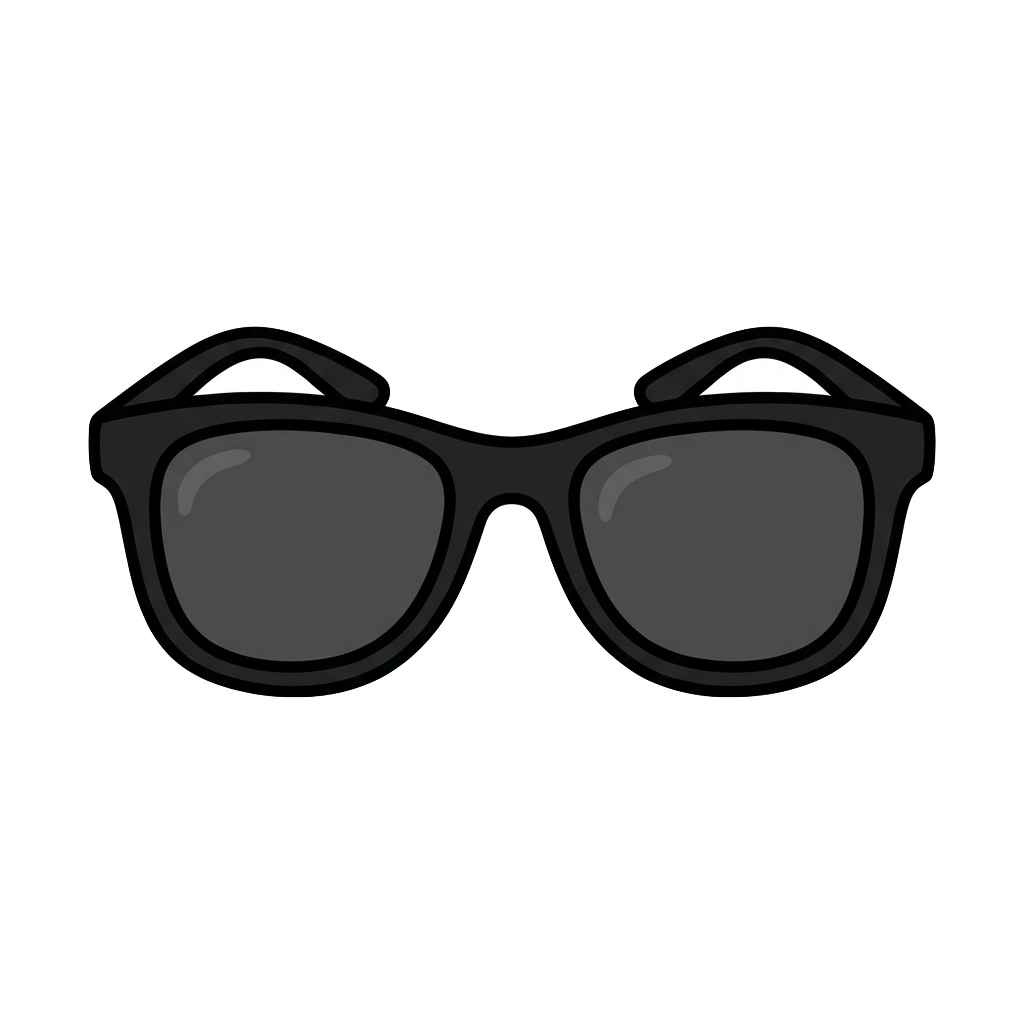
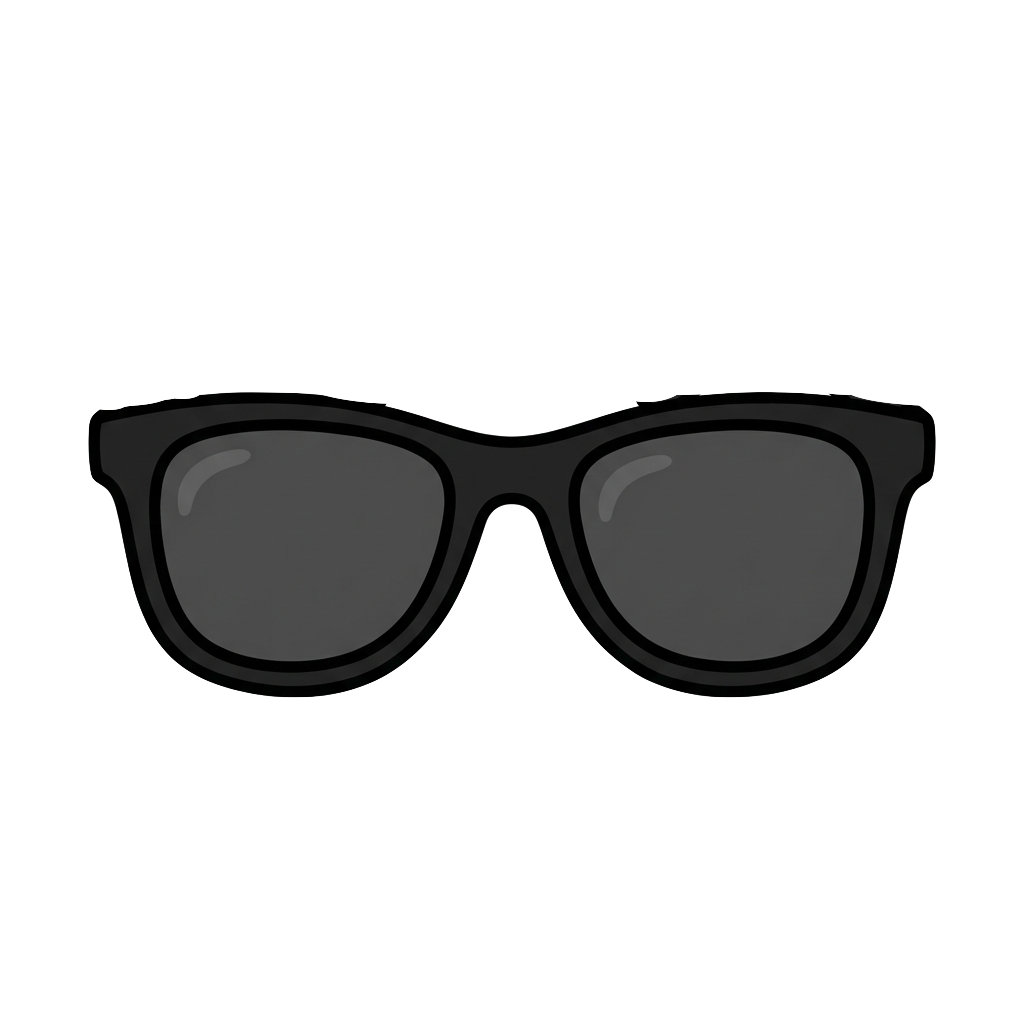
trash works, hide elements in drawer to allow for vertical scrolling and adding new items in the future

Changed region(s): [[0.0938, 0.3125, 0.4062, 0.4062], [0.625, 0.3125, 0.9062, 0.4062]]

diff --git a/components/SlidingDrawer.js b/components/SlidingDrawer.js
@@ -1,12 +1,14 @@
 import React, { useState, useRef } from 'react';
 import { View, TouchableOpacity, Image, StyleSheet, Animated, Text, ScrollView, Dimensions, I18nManager } from 'react-native';
 import { GestureDetector, Gesture } from 'react-native-gesture-handler';
-import AnimatedReanimated, { useSharedValue, useAnimatedStyle, withSpring, runOnJS } from 'react-native-reanimated';
+import AnimatedReanimated, { useSharedValue, useAnimatedStyle, withSpring, runOnJS, useAnimatedScrollHandler, interpolate, Extrapolate } from 'react-native-reanimated';
 
-const DRAWER_WIDTH = 160;
+const DRAWER_WIDTH = 120;
 const { width: SCREEN_WIDTH, height: SCREEN_HEIGHT } = Dimensions.get('window');
 
-function DraggableDrawerItem({ item, active, color, onSelect, allowDrag }) {
+const ITEM_HEIGHT_ESTIMATE = 95; // Approx height of item + gap
+
+function DraggableDrawerItem({ item, active, color, onSelect, allowDrag, scrollY, index, drawerHeight }) {
     const translateX = useSharedValue(0);
     const translateY = useSharedValue(0);
     const isDragging = useSharedValue(false);
@@ -14,6 +16,7 @@ function DraggableDrawerItem({ item, active, color, onSelect, allowDrag }) {
     // Pan Gesture for dragging
     const panGesture = Gesture.Pan()
         .enabled(allowDrag)
+        .activeOffsetX([-10, 10])
         .onStart(() => {
             isDragging.value = true;
         })
@@ -33,13 +36,31 @@ function DraggableDrawerItem({ item, active, color, onSelect, allowDrag }) {
         });
 
     const animatedStyle = useAnimatedStyle(() => {
+        // Visual Clipping Logic with Interpolation
+        const itemY = index * ITEM_HEIGHT_ESTIMATE;
+        const relativeY = itemY - scrollY.value; // Position relative to view window
+
+        // Interpolate opacity for smooth but strict clipping at edges
+        // Top Edge: Fade in from -60 to -10
+        // Bottom Edge: Fade out from (Height - ItemHeight) to Height
+        const interpolatedOpacity = interpolate(
+            relativeY,
+            [-60, -10, drawerHeight - ITEM_HEIGHT_ESTIMATE - 10, drawerHeight - 40],
+            [0, 1, 1, 0],
+            Extrapolate.CLAMP
+        );
+
+        // Force visible if dragging, otherwise strict clipping
+        const opacity = isDragging.value ? 1 : interpolatedOpacity;
+
         return {
             transform: [
                 { translateX: translateX.value },
                 { translateY: translateY.value },
                 { scale: isDragging.value ? 1.2 : 1 }
             ],
-            zIndex: isDragging.value ? 9999 : 1, // Attempt to float above
+            zIndex: isDragging.value ? 9999 : 1,
+            opacity: withSpring(opacity, { duration: 50 })
         };
     });
 
@@ -82,9 +103,13 @@ export default function SlidingDrawer({
     const [isOpen, setIsOpen] = useState(false);
     const slideAnim = useRef(new Animated.Value(DRAWER_WIDTH)).current;
 
-    // Calculate Dynamic Height
-    // Reserve space for bottom safe area (approx 40) + Top Offset
-    const maxContentHeight = SCREEN_HEIGHT - topOffset - 60; // 60 for title + padding
+    // Fixed height for ~4 items (approx 90px each + margins)
+    const MAX_DRAWER_HEIGHT = 400;
+
+    const scrollY = useSharedValue(0);
+    const scrollHandler = useAnimatedScrollHandler((event) => {
+        scrollY.value = event.contentOffset.y;
+    });
 
     const toggleDrawer = () => {
         const toValue = isOpen ? DRAWER_WIDTH : 0;
@@ -125,15 +150,17 @@ export default function SlidingDrawer({
             </TouchableOpacity>
 
             {/* DRAWER CONTENT */}
-            <View style={[styles.drawerContent, { maxHeight: maxContentHeight + 50 }]}>
+            <View style={[styles.drawerContent, { maxHeight: MAX_DRAWER_HEIGHT }]}>
                 <Text style={[styles.title, { color }]}>{title}</Text>
-                <ScrollView
-                    style={{ maxHeight: maxContentHeight, overflow: 'visible' }} // Attempt overlay: visible
+                <AnimatedReanimated.ScrollView
+                    style={{ maxHeight: MAX_DRAWER_HEIGHT - 40, overflow: 'visible' }}
                     showsVerticalScrollIndicator={true}
-                    contentContainerStyle={{ paddingBottom: 20, overflow: 'visible' }} // Attempt overflow: visible
+                    contentContainerStyle={{ paddingBottom: 20, overflow: 'visible' }}
+                    onScroll={scrollHandler}
+                    scrollEventThrottle={16}
                 >
                     <View style={styles.grid}>
-                        {data.map((item) => (
+                        {data.map((item, index) => (
                             <DraggableDrawerItem
                                 key={item.id}
                                 item={item}
@@ -141,10 +168,13 @@ export default function SlidingDrawer({
                                 color={color}
                                 onSelect={onSelect}
                                 allowDrag={allowDrag}
+                                scrollY={scrollY}
+                                index={index}
+                                drawerHeight={MAX_DRAWER_HEIGHT - 40}
                             />
                         ))}
                     </View>
-                </ScrollView>
+                </AnimatedReanimated.ScrollView>
             </View>
         </Animated.View>
     );
@@ -162,13 +192,13 @@ const styles = StyleSheet.create({
         height: 'auto', // Allow it to shrink/grow
     },
     tab: {
-        width: 70, // Bigger
-        height: 70, // Bigger
-        borderTopLeftRadius: 35, // Rounder
-        borderBottomLeftRadius: 35,
+        width: 60, // Smaller tab to match smaller drawer
+        height: 60,
+        borderTopLeftRadius: 30,
+        borderBottomLeftRadius: 30,
         justifyContent: 'center',
         alignItems: 'center',
-        marginLeft: -70, // Aligned
+        marginLeft: -60, // Aligned
         shadowColor: '#000',
         shadowOpacity: 0.2,
         shadowRadius: 3,
@@ -180,7 +210,7 @@ const styles = StyleSheet.create({
         marginTop: 10,
     },
     tabText: {
-        fontSize: 32, // Bigger Icon
+        fontSize: 28,
         color: 'white',
         textShadowColor: 'rgba(0,0,0,0.2)',
         textShadowOffset: { width: 1, height: 1 },
@@ -189,32 +219,30 @@ const styles = StyleSheet.create({
     drawerContent: {
         flex: 1,
         backgroundColor: 'rgba(255, 255, 255, 0.95)',
-        padding: 10,
+        padding: 5, // Reduced padding
         borderTopLeftRadius: 20,
         borderBottomLeftRadius: 20,
         elevation: 10,
         shadowColor: '#000',
         shadowOpacity: 0.25,
         shadowOffset: { width: -4, height: 4 },
-        // removed fixed height
-        minHeight: 100,
         borderWidth: 1,
         borderColor: '#fff',
+        // overflow: 'hidden', // REMOVED to allow dragging out!
     },
     title: {
         fontWeight: '900',
-        marginBottom: 10,
+        marginBottom: 5,
         textAlign: 'center',
-        fontSize: 16, // Slightly smaller
+        fontSize: 14,
         textTransform: 'uppercase',
         letterSpacing: 1,
     },
     grid: {
-        flexDirection: 'row',
-        flexWrap: 'wrap',
-        justifyContent: 'center',
+        flexDirection: 'column', // Stack vertically
+        flexWrap: 'nowrap',
+        alignItems: 'center',
         gap: 10,
-        // React Native gap property support is inconsistent in older versions but fine in recent Expo
     },
     thumbnailContainer: {
         alignItems: 'center',

diff --git a/App.js b/App.js
@@ -86,7 +86,7 @@ const CENTER_Y = (height * 0.95) / 2 - 300;
 // Constants matching the Visual Layout of the Trash Button
 const TRASH_CONFIG = {
   x: 231, // Align with 4th button center (Start 20 + 3*62 + 25)
-  y: 75,  // Align with header row (Top 50 + Half Height 25)
+  y: 150,  // Drop Zone below the icon
   radius: 40, // Tighter Hit Radius
   visualRadius: 60 // Feedback Radius
 };
@@ -135,6 +135,10 @@ export default function App() {
   const [selectedAnimalId, setSelectedAnimalId] = useState(null); // Track ID
   const [currentOutfitId, setCurrentOutfitId] = useState(null); // Track loaded/saved outfit ID for overwriting
   const [currentScreen, setCurrentScreen] = useState('selection'); // 'selection' | 'dressup'
+  const [savedOutfits, setSavedOutfits] = useState([]);
+  const [isSaveModalVisible, setIsSaveModalVisible] = useState(false);
+  const [trashLayout, setTrashLayout] = useState(null);
+  const [isAboutVisible, setIsAboutVisible] = useState(false);
 
   // EASTER EGG STATE 🥚
   const [eggCount, setEggCount] = useState(0);
@@ -261,9 +265,8 @@ export default function App() {
   const [historyIndex, setHistoryIndex] = useState(0);
 
   // SAVE / LOAD STATE
-  const [savedOutfits, setSavedOutfits] = useState([]);
-  const [isSaveModalVisible, setIsSaveModalVisible] = useState(false);
-  const [isAboutVisible, setIsAboutVisible] = useState(false);
+  // SAVE / LOAD STATE references moved to top
+  const TRASH_ZONE_HEIGHT = 120; // Hardcoded height for top bar kill zone
 
   // Derived current state from history
   const currentOutfit = history[historyIndex].outfit;
@@ -391,8 +394,8 @@ export default function App() {
       yOffset = animalFit.torso.y;
     } else if (type === 'jewelry') {
       yOffset = animalFit.torso.y - 30;
-      scaleX = 0.4;
-      scaleY = 0.4;
+      scaleX = 0.25;
+      scaleY = 0.25;
     } else if (type === 'neckwear') {
       yOffset = animalFit.torso.y - 20;
       scaleX = 0.4;
@@ -426,8 +429,12 @@ export default function App() {
     let initialY = transform.y;
 
     if (dropCoords && typeof dropCoords.x === 'number' && typeof dropCoords.y === 'number') {
-      initialX = dropCoords.x - 300;
-      initialY = dropCoords.y - 300;
+      // Account for Canvas Offset (Pan) and Gravity
+      const canvasOffsetX = animalX.value || 0;
+      const canvasOffsetY = (animalY.value || 0) + (gravityOffset.value || 0);
+
+      initialX = dropCoords.x - 300 - canvasOffsetX;
+      initialY = dropCoords.y - 300 - canvasOffsetY;
     }
 
     const newItem = {
@@ -445,16 +452,12 @@ export default function App() {
     addToHistory(newOutfit, undefined);
   };
 
-  const updateAccessoryTransform = (type, instanceId, x, y, scaleX, scaleY, rotation) => {
+  const updateAccessoryTransform = (type, instanceId, x, y, scaleX, scaleY, rotation, shouldDelete) => {
     const newOutfit = { ...currentOutfit };
     if (!newOutfit[type]) return;
 
-    const itemCenterX = x + 300;
-    const itemCenterY = y + 300;
-
-    const distToTrash = Math.sqrt(Math.pow(itemCenterX - TRASH_CONFIG.x, 2) + Math.pow(itemCenterY - TRASH_CONFIG.y, 2));
-
-    if (distToTrash < TRASH_CONFIG.radius) {
+    // Check explicit delete flag from DraggableAccessor
+    if (shouldDelete) {
       newOutfit[type] = newOutfit[type].filter(item => item.instanceId !== instanceId);
       addToHistory(newOutfit, undefined);
       return;
@@ -498,7 +501,21 @@ export default function App() {
   });
 
   const setBackground = (source, id) => {
-    addToHistory(undefined, source);
+    setCurrentBackground({ source, id });
+  };
+
+  const onTrashLayout = (event) => {
+    const { x, y, width, height } = event.nativeEvent.layout;
+    // Calculate absolute position based on headerRow styles (top: 50, left: 20)
+    // We want the drop zone BELOW the icon.
+    const absoluteX = 20 + x + (width / 2);
+    const absoluteY = 50 + y + height + 40; // 40px gap below icon
+
+    setTrashLayout({
+      x: absoluteX,
+      y: absoluteY,
+      radius: 50, // Hit radius
+    });
   };
 
   const resetOutfit = () => {
@@ -854,8 +871,8 @@ export default function App() {
                         initialScaleX={item.scaleX}
                         initialScaleY={item.scaleY}
                         initialRotation={item.rotation}
-                        garbageConfig={TRASH_CONFIG} // Pass Config
-                        onDragEnd={(pos) => updateAccessoryTransform(type, item.instanceId, pos.x, pos.y, pos.scaleX, pos.scaleY, pos.rotation)}
+                        garbageConfig={{ type: 'top', height: 120 }} // Simplified Top Zone
+                        onDragEnd={(pos) => updateAccessoryTransform(type, item.instanceId, pos.x, pos.y, pos.scaleX, pos.scaleY, pos.rotation, pos.shouldDelete)}
                       />
                     ))
                   })}
@@ -997,7 +1014,7 @@ const styles = StyleSheet.create({
     position: 'absolute',
     top: 50, // Safe Area
     left: 20,
-    right: 20,
+    right: 90, // Avoid overlapping Drawer Tabs (60px + padding)
     flexDirection: 'row',
     justifyContent: 'space-between',
     zIndex: 1000,

diff --git a/components/DraggableAccessor.js b/components/DraggableAccessor.js
@@ -26,6 +26,18 @@ export default function DraggableAccessor({ source, initialX, initialY, initialS
         rotation.value = withSpring(initialRotation);
     }, [initialX, initialY, initialScaleX, initialScaleY, initialRotation]);
 
+    const trashHeight = useSharedValue(0);
+    const hasTrashConfig = useSharedValue(0); // Boolean flag
+
+    useEffect(() => {
+        if (garbageConfig && garbageConfig.type === 'top') {
+            trashHeight.value = garbageConfig.height;
+            hasTrashConfig.value = 1;
+        } else {
+            hasTrashConfig.value = 0;
+        }
+    }, [garbageConfig]);
+
     // Drag Gesture
     const dragGesture = Gesture.Pan()
         .onStart(() => {
@@ -43,13 +55,13 @@ export default function DraggableAccessor({ source, initialX, initialY, initialS
             translateX.value = nextX;
             translateY.value = nextY;
 
-            // Check Garbage Proximity if config exists
-            if (garbageConfig) {
-                const itemCenterX = nextX + 300;
-                const itemCenterY = nextY + 300;
-                const dist = Math.sqrt(Math.pow(itemCenterX - garbageConfig.x, 2) + Math.pow(itemCenterY - garbageConfig.y, 2));
+            // Check Garbage Proximity using Shared Values & Absolute Coordinates
+            if (hasTrashConfig.value === 1) {
+                // Use absolute pointer position. 
+                // For Top Zone: check if pointerY < trashHeight
+                const pointerY = event.absoluteY;
 
-                if (dist < garbageConfig.radius) {
+                if (pointerY < trashHeight.value) {
                     isDeleting.value = 1; // True
                 } else {
                     isDeleting.value = 0; // False
@@ -57,14 +69,17 @@ export default function DraggableAccessor({ source, initialX, initialY, initialS
             }
         })
         .onEnd(() => {
+            const shouldDelete = isDeleting.value === 1;
             isDeleting.value = 0; // Reset visual
+
             if (onDragEnd) {
                 runOnJS(onDragEnd)({
                     x: translateX.value,
                     y: translateY.value,
                     scaleX: scaleX.value,
                     scaleY: scaleY.value,
-                    rotation: rotation.value
+                    rotation: rotation.value,
+                    shouldDelete: shouldDelete // Pass delete flag
                 });
             }
         });
@@ -133,7 +148,7 @@ export default function DraggableAccessor({ source, initialX, initialY, initialS
         const isTrashHover = isDeleting.value === 1;
 
         return {
-            opacity: withTiming(isTrashHover ? 0.5 : 1, { duration: 100 }),
+            opacity: withTiming(isTrashHover ? 0.3 : 1, { duration: 100 }),
             transform: [
                 { translateX: translateX.value },
                 { translateY: translateY.value },
@@ -141,7 +156,7 @@ export default function DraggableAccessor({ source, initialX, initialY, initialS
                 { scaleY: scaleY.value },
                 // Apply trash shrink effect as a separate scale transform
                 // This avoids multiplying scalar by animation object
-                { scale: withSpring(isTrashHover ? 0.7 : 1) },
+                { scale: withSpring(isTrashHover ? 0.4 : 1) },
                 { rotate: `${rotation.value}rad` }
             ],
         };
